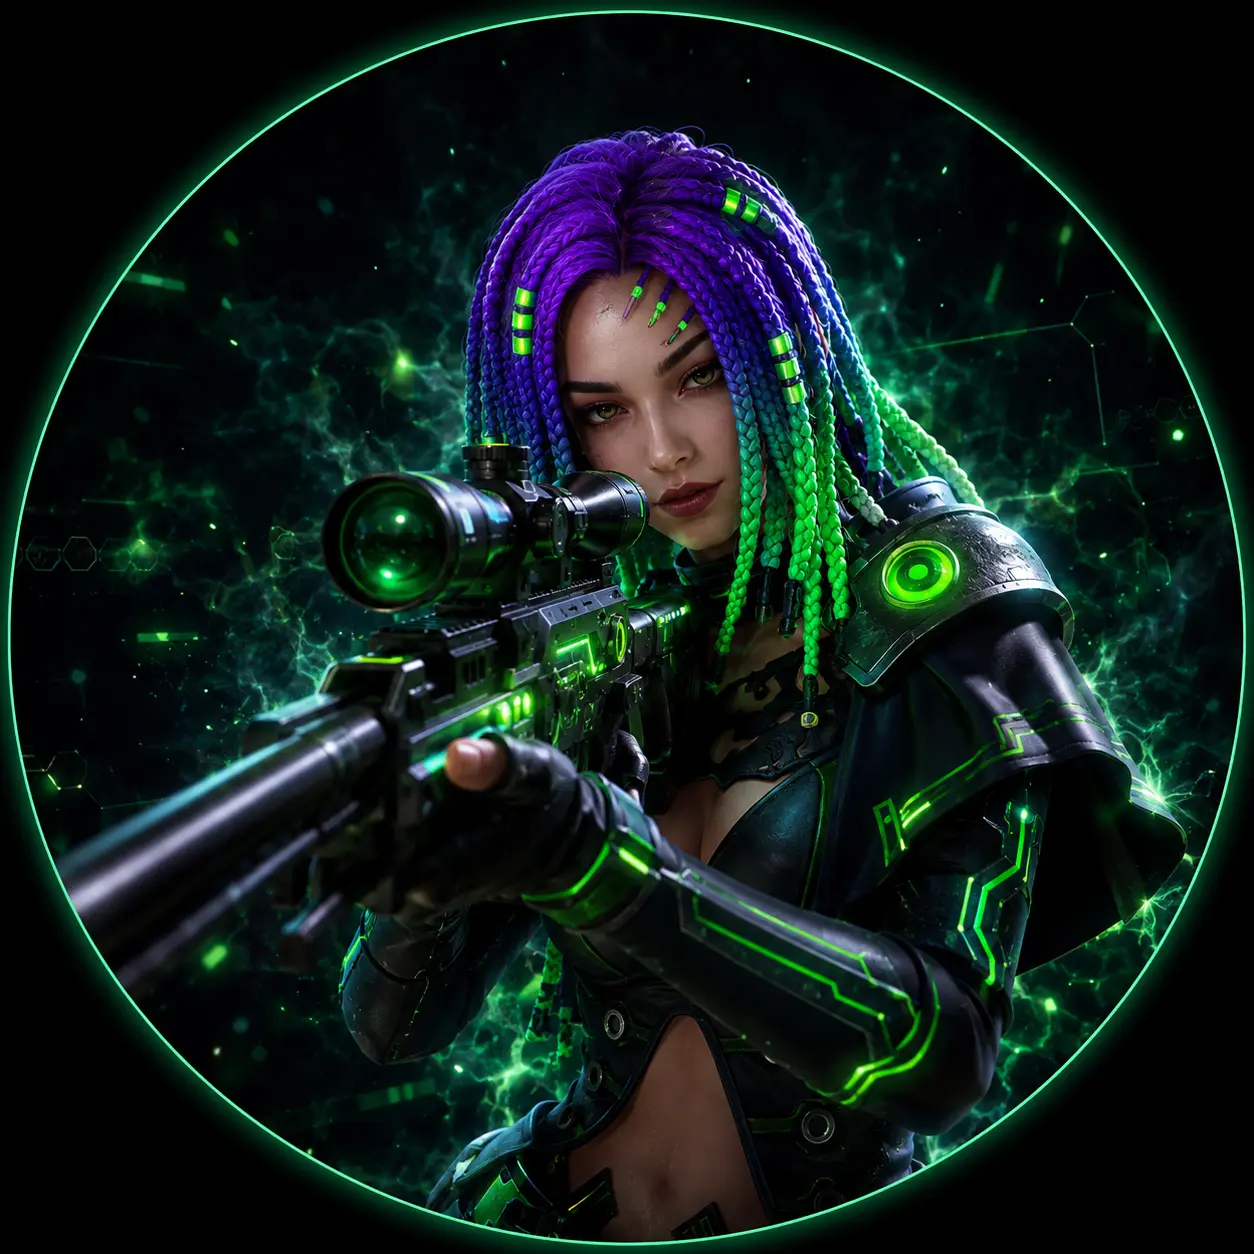
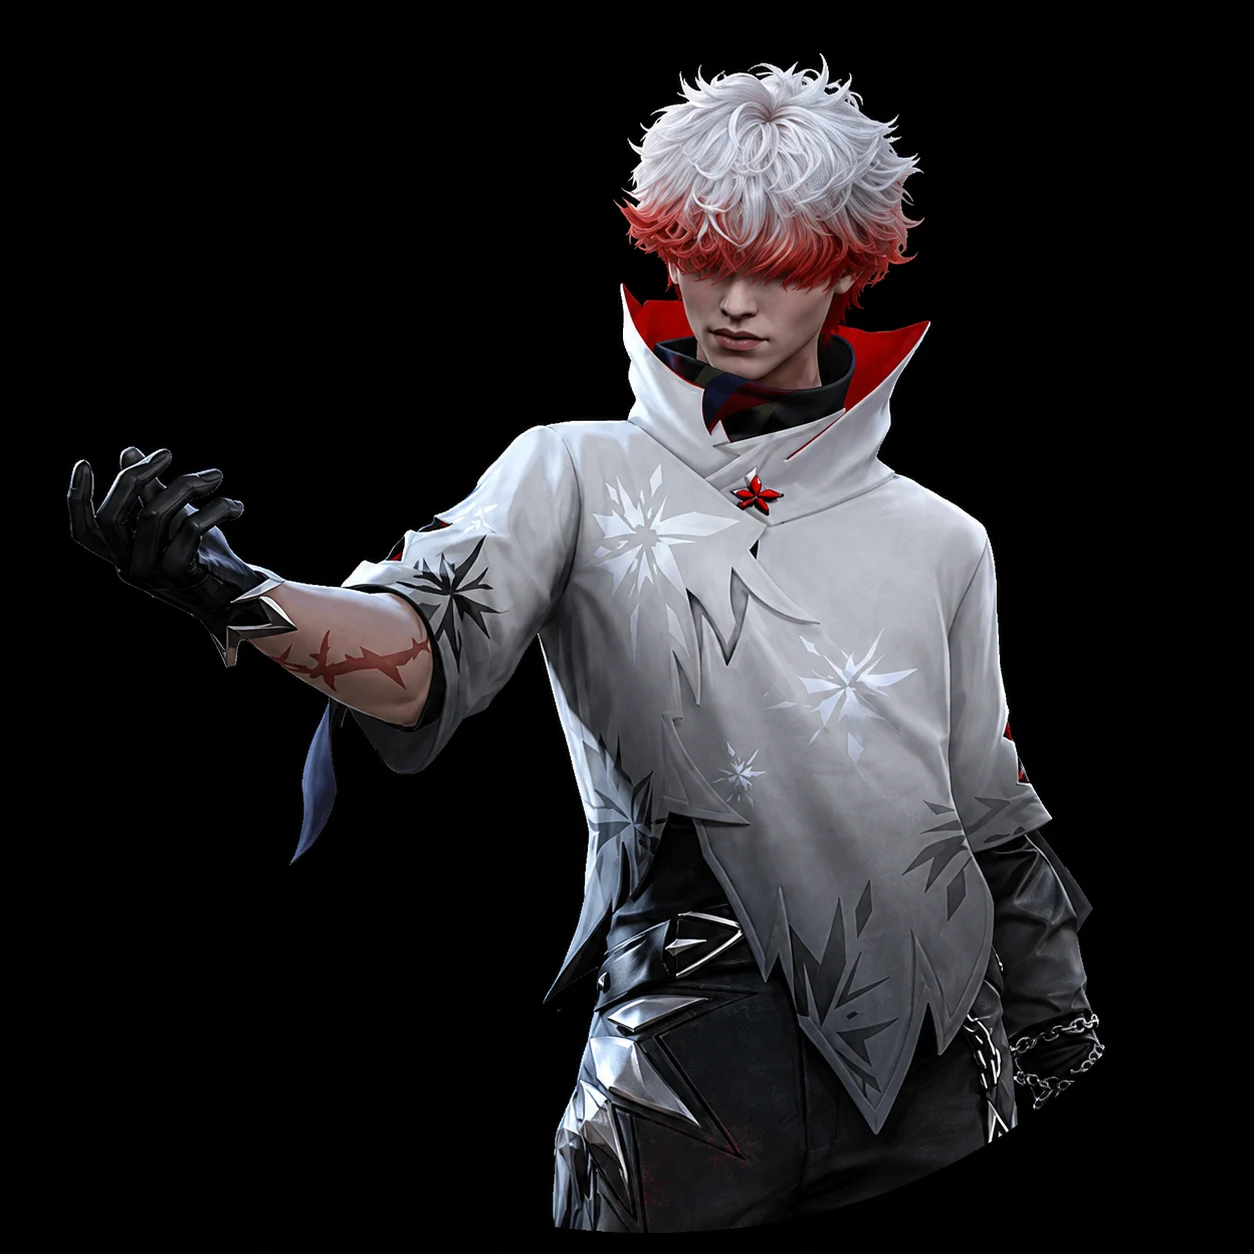
findplayer updated

diff --git a/src/common/utils/profileImages.ts b/src/common/utils/profileImages.ts
@@ -5,6 +5,8 @@ export const avatarOptions = [
   "avatar2.webp",
   "avatar3.webp",
   "avatar4.webp",
+  "avatar5.webp",
+  "avatar6.webp",
   
 ];
 
@@ -15,6 +17,4 @@ export const bannerOptions = [
   "banner4.webp",
   "banner5.webp",
   "banner6.webp",
-  "banner7.webp",
-  "banner8.webp",
 ];